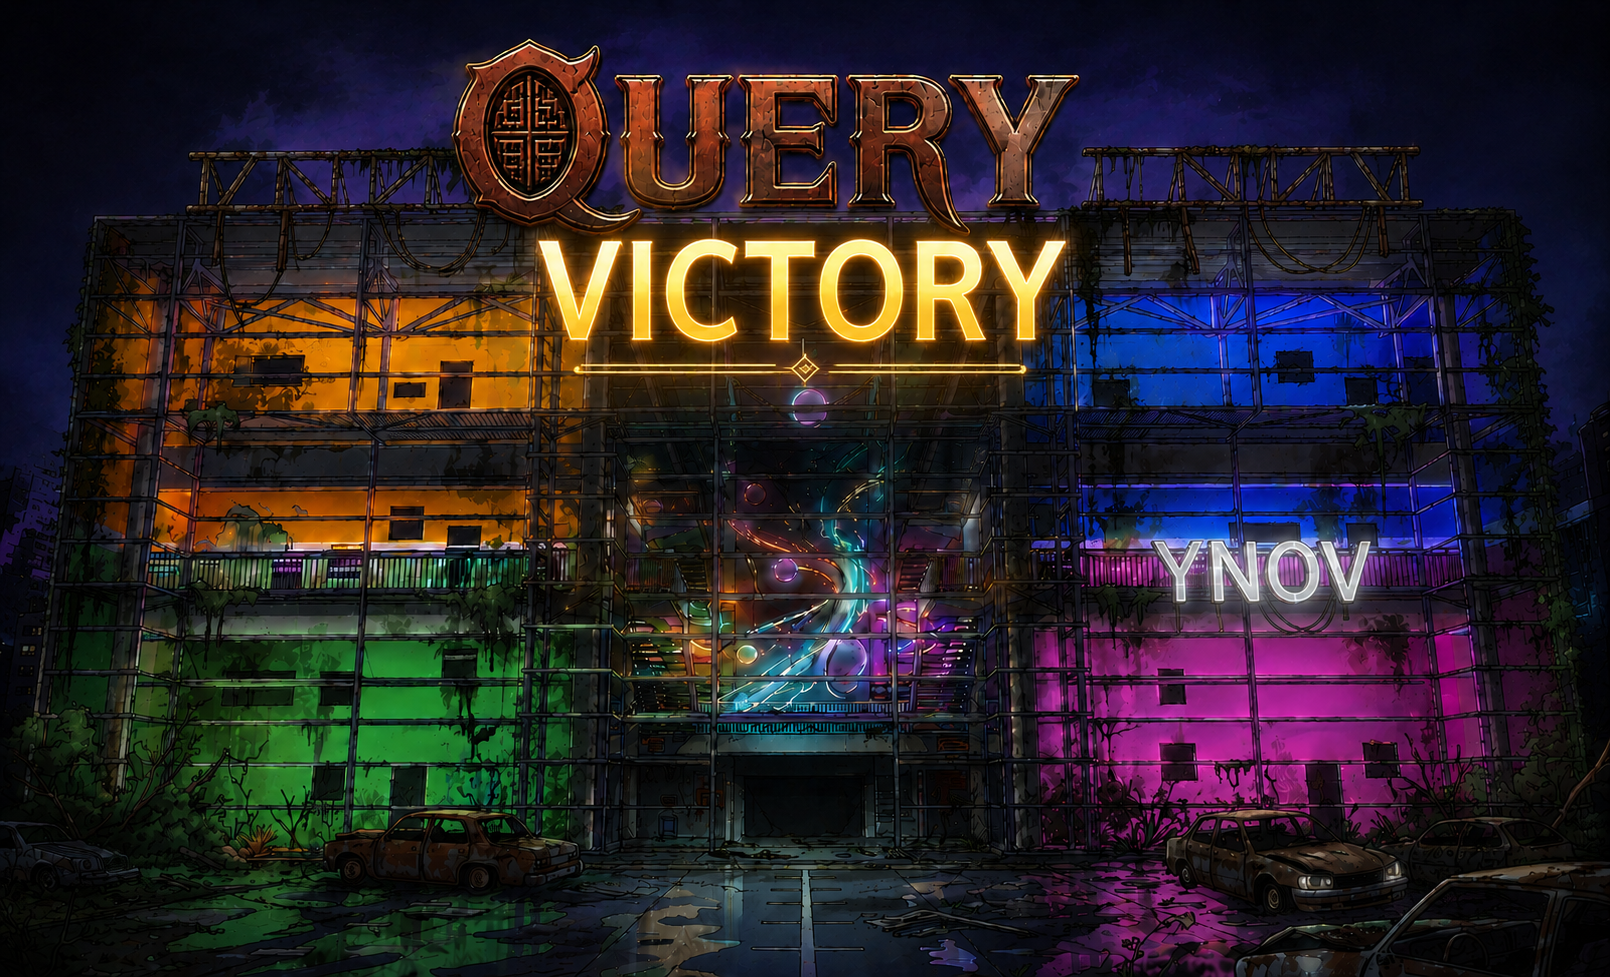
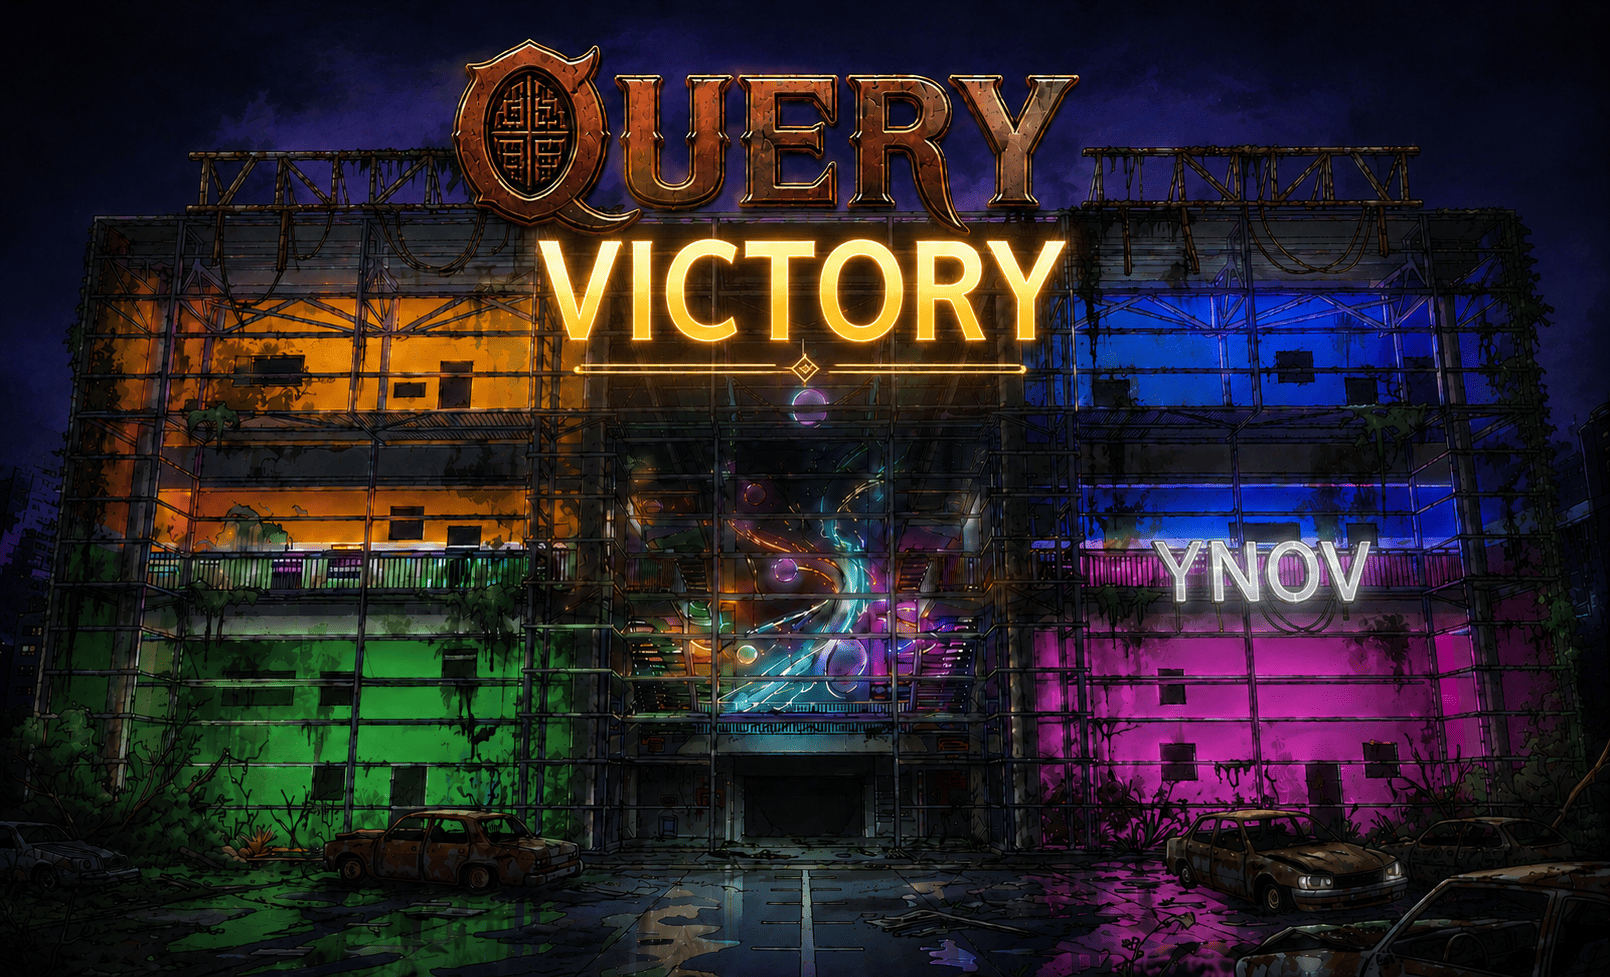
[FIX] Resize img 28M -> 6.9M

diff --git a/js/navigation.js b/js/navigation.js
@@ -77,46 +77,19 @@ function quitGame() {
     } else {
         closeGame();
     }
-}
+};
 
 function closeGame() {
-    window.close();
-
-    setTimeout(() => {
-        document.body.innerHTML = `
-            <div style="
-                display:flex;
-                flex-direction:column;
-                align-items:center;
-                justify-content:center;
-                height:100vh;
-                background:#000;
-                color:#c8a96e;
-                font-family:'Cinzel', serif;
-                text-align:center;
-                gap:24px;
-            ">
-                <h1 style="font-size:2rem; letter-spacing:0.2em;">
-                    QUERY
-                </h1>
-
-                <p style="opacity:0.7; letter-spacing:0.1em;">
-                    Vous pouvez maintenant fermer cet onglet.
-                </p>
-
-                <button onclick="window.close()" style="
-                    padding:12px 24px;
-                    background:#c8a96e;
-                    border:none;
-                    cursor:pointer;
-                    font-family:'Cinzel', serif;
-                ">
-                    Fermer
-                </button>
-            </div>
-        `;
-    }, 100);
-}
+    const overlay = document.getElementById('transition-overlay');
+    if (overlay) {
+        overlay.classList.add('active');
+        setTimeout(() => {
+            window.location.href = '/src/quit.html';
+        }, 600);
+    } else {
+        window.location.href = '/src/quit.html';
+    }
+};
 
 function handleContinueButton() {
     const continueBtn = document.getElementById("continue-btn");
